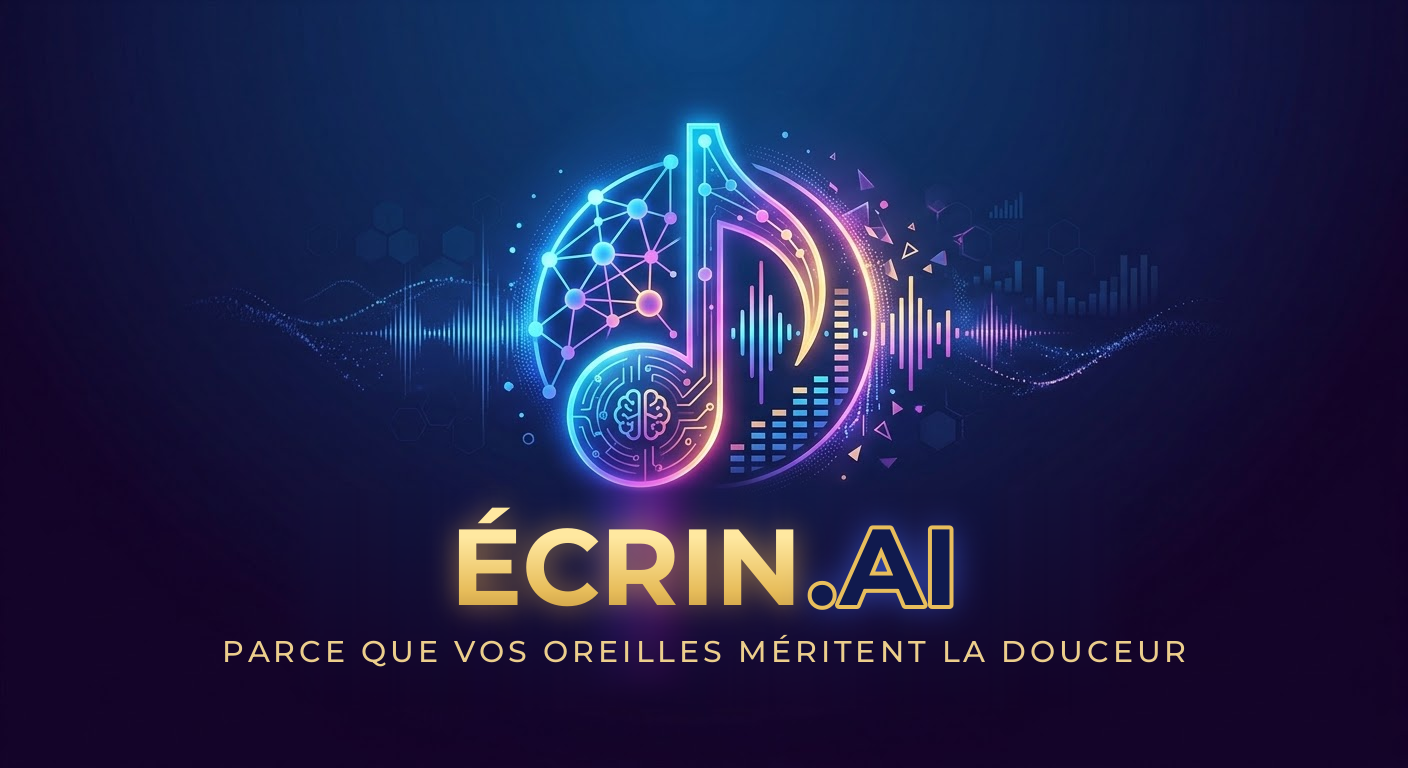
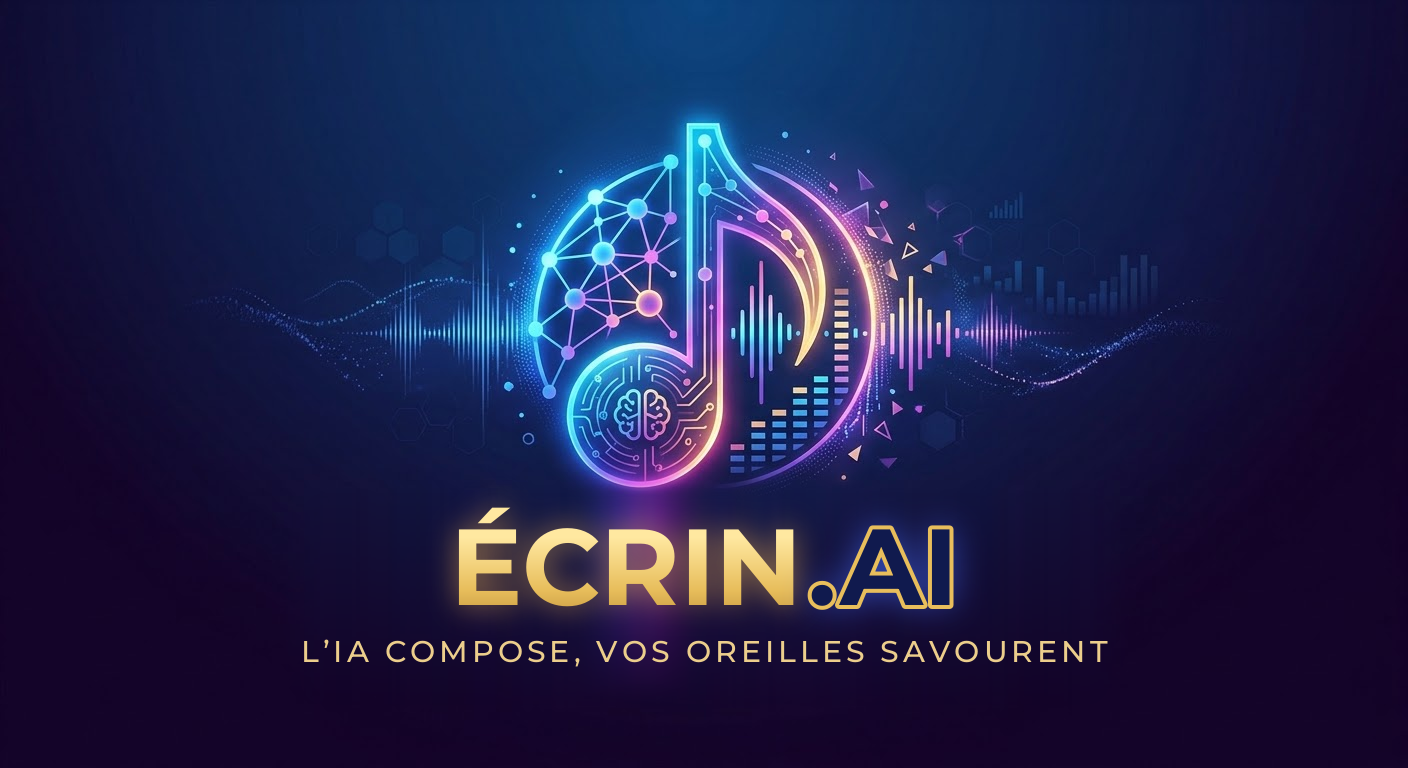
Écrin : slogan « L’IA compose, vos oreilles savourent »
Claude-Session: https://claude.ai/code/session_01UoQ3YVHzvSrPRGrgK3Aczk

Changed region(s): [[0.1562, 0.8125, 0.8438, 0.875]]

diff --git a/ecrin/index.html b/ecrin/index.html
@@ -4,7 +4,7 @@
 <meta charset="utf-8">
 <meta name="viewport" content="width=device-width,initial-scale=1,viewport-fit=cover">
 <title>Écrin</title>
-<meta name="description" content="Écrin : parce que vos oreilles méritent la douceur. La musique des créateurs IA, gratuite pour tout le monde.">
+<meta name="description" content="Écrin : l’IA compose, vos oreilles savourent. La musique des créateurs IA, gratuite pour tout le monde.">
 <meta name="theme-color" content="#140A10">
 <link rel="manifest" href="manifest.json">
 <link rel="icon" href="icon.svg" type="image/svg+xml">
@@ -36,7 +36,7 @@
     <section id="view-listen" class="view">
       <div class="hero">
         <h1>La musique des créateurs Suno, libre pour tout le monde.</h1>
-        <p class="lede">Parce que vos oreilles méritent la douceur. Les créations des artistes IA, gratuites pour tout le monde : publie les tiennes, écoute celles des autres en boucle ou en aléatoire.</p>
+        <p class="lede">L’IA compose, vos oreilles savourent. Les créations des artistes IA, gratuites pour tout le monde : publie les tiennes, écoute celles des autres en boucle ou en aléatoire.</p>
         <div class="hero-actions">
           <button id="play-all" class="btn btn-primary" type="button">
             <svg viewBox="0 0 24 24" aria-hidden="true"><path d="M8 5v14l11-7z"/></svg> Tout écouter
